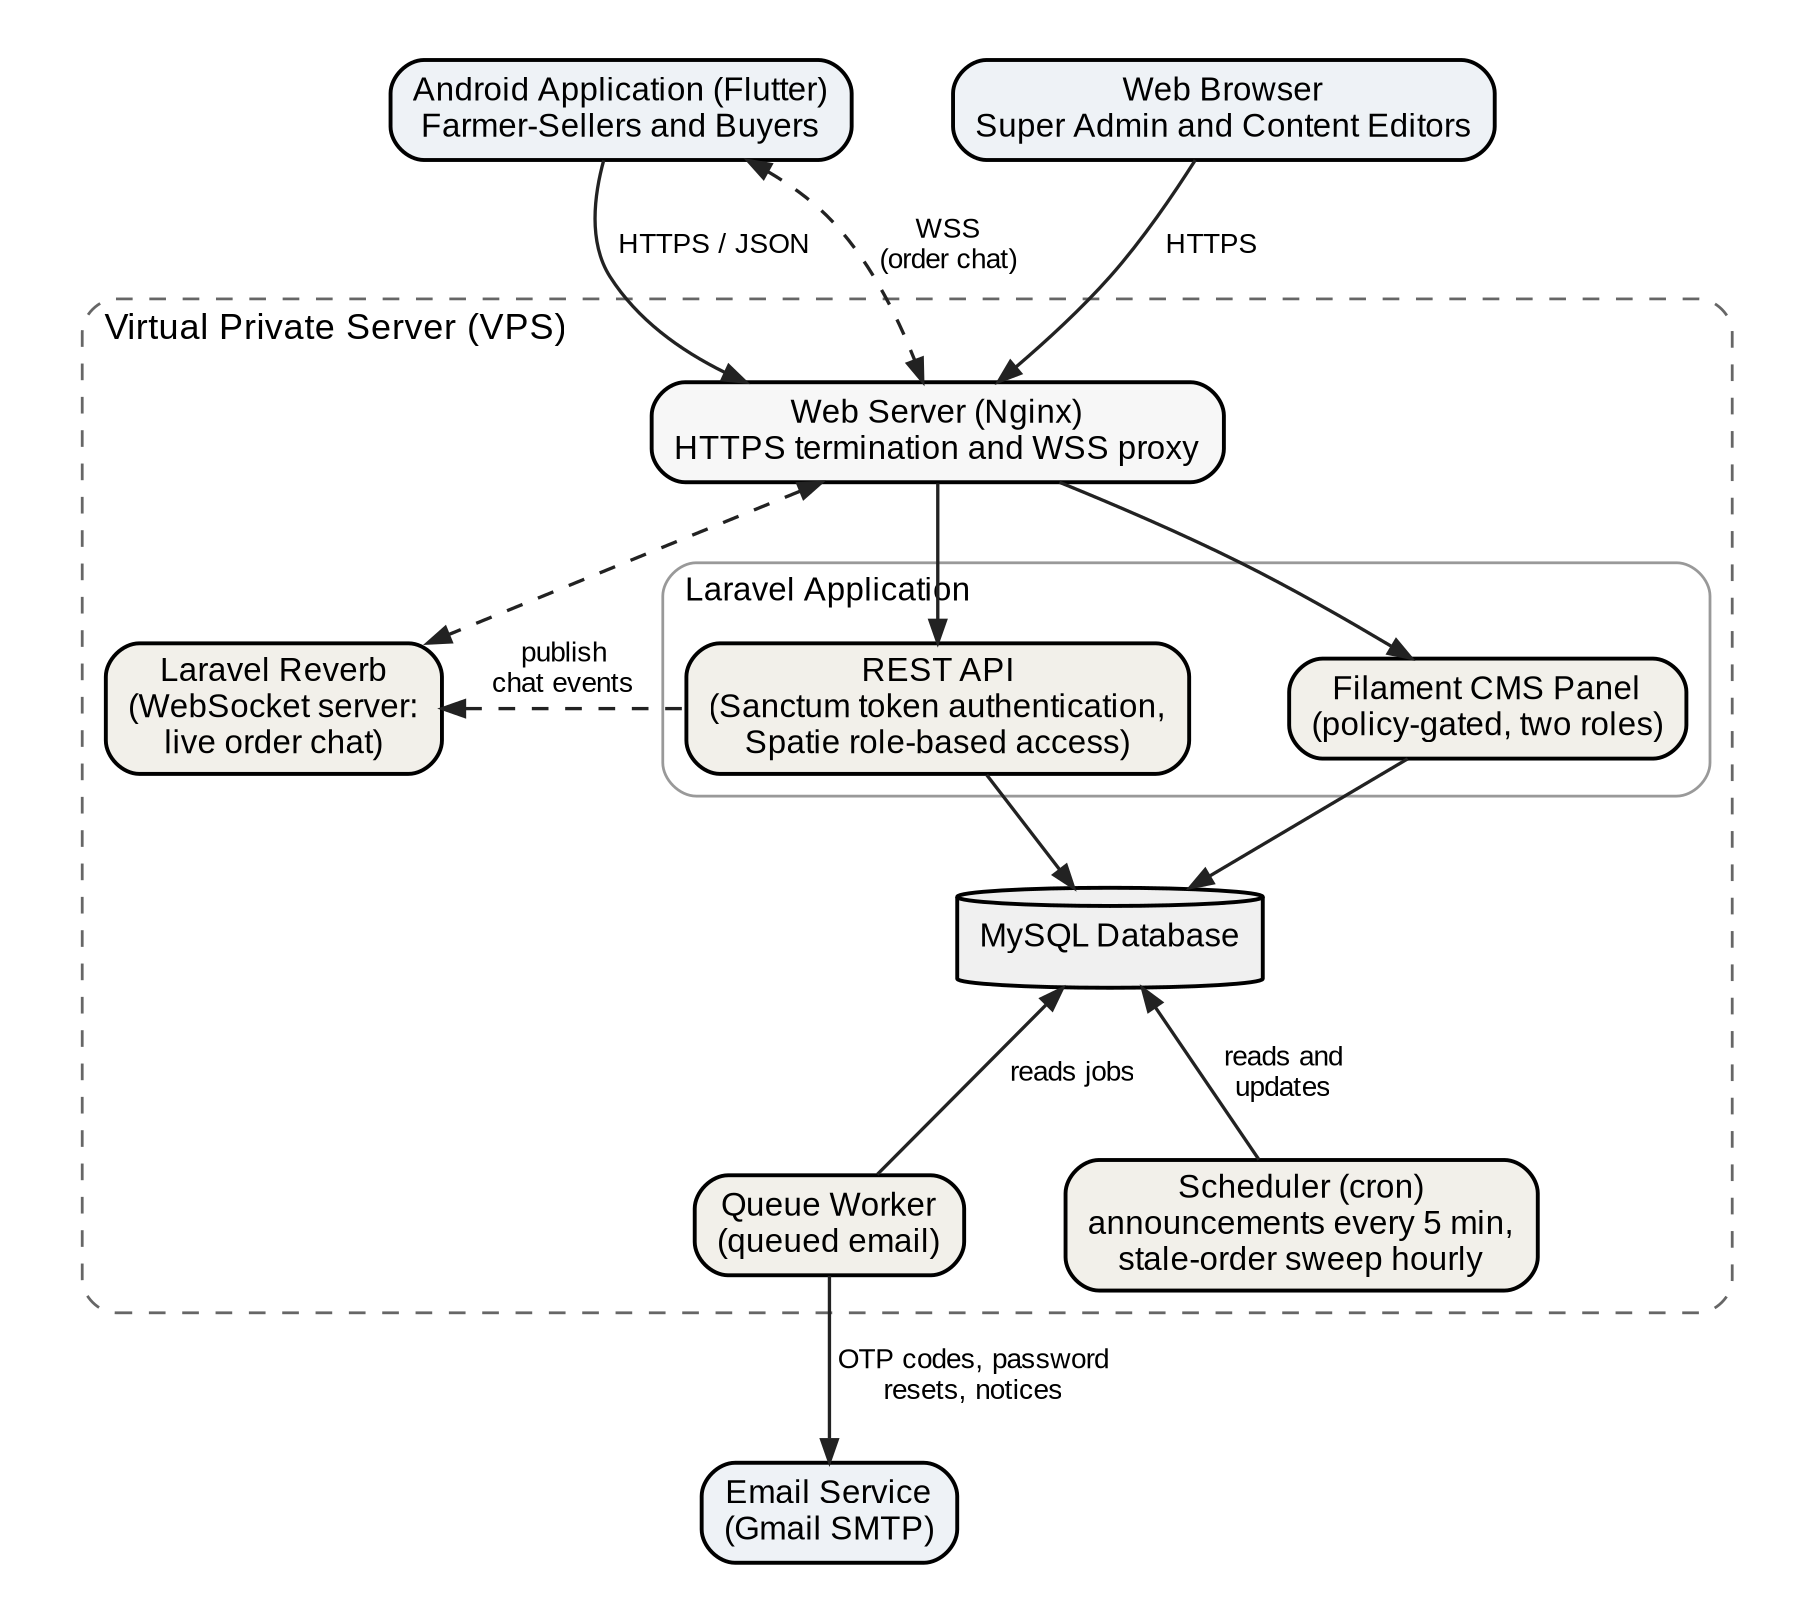
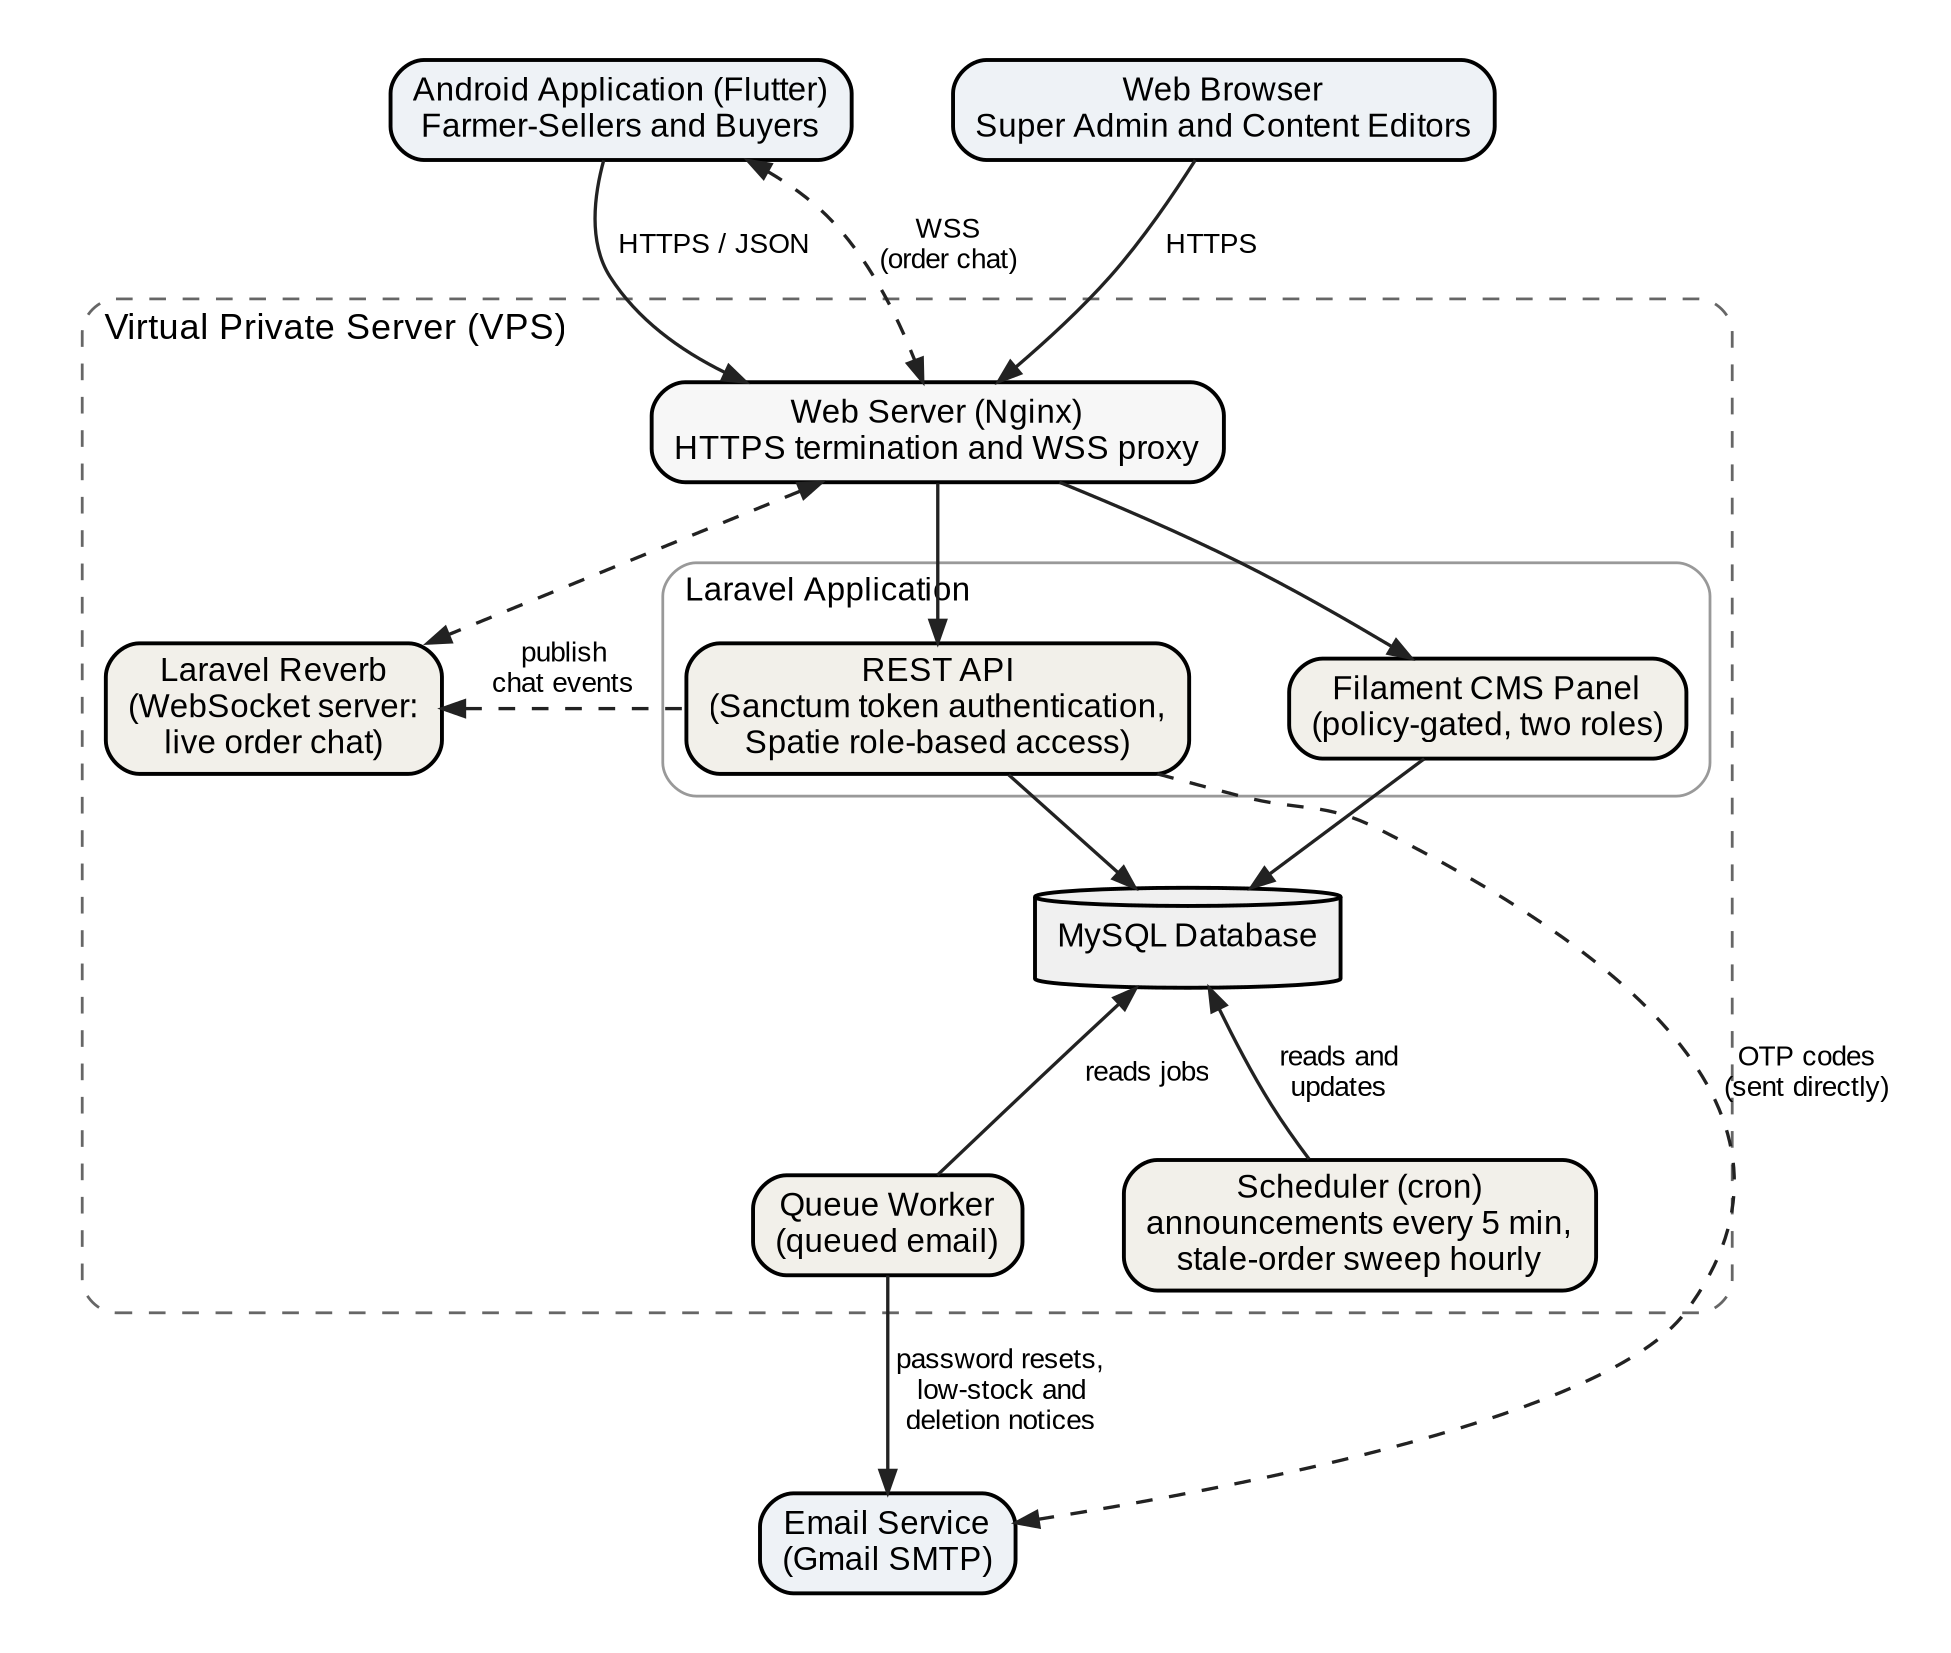
docs: correct OTP delivery path, update test totals and Flutter version
Figure 4 now shows the OTP sent directly by the API; the queue worker
sends password resets, low-stock alerts and deletion notices. The v3.5
spec gains the post-v3.5 hardening addendum (A1-A11) and the CI totals.

Claude-Session: https://claude.ai/code/session_01DHu5teF2E6viwKNN4sP5w4

diff --git a/docs/spec/AniHow_Project_Instructions_v3.5.md b/docs/spec/AniHow_Project_Instructions_v3.5.md
@@ -6,7 +6,8 @@ instruction set, working note, or prior manuscript section, THIS DOCUMENT WINS.
 v2 through v3.4 are historical reference only.
 
 Status: system built and feature-complete for the study; manuscript in re-audit
-against the v3.5 build.
+against the v3.5 build. Revised 24 September 2026 for the post-v3.5 hardening
+pass (see "Post-v3.5 addendum" at the end); no module or actor changed.
 
 ---
 
@@ -30,17 +31,18 @@ The system is implemented across three surfaces: a Laravel API (four roles), a
 Filament CMS (policy-gated resources for two roles on one panel), and a Flutter
 Android application. Development happens on the branch
 `cursor/cloud-agent-1790189470926-52vq6`; this document describes that branch as
-of commit `c22e36f`.
+of commit `efa1419`.
 
 **Test totals (confirmed runs, 24 September 2026).**
 
 | Layer | Result |
 |---|---|
-| Full `php artisan test` suite | **182 tests, 1,320 assertions** |
+| Full `php artisan test` suite | **215 tests, 1,538 assertions** |
 | SmokeTestSeeder (service-level, runs separately) | **26 of 26** checks |
 | Multi-farm isolation (inside the PHP total) | 8 checks, 138 assertions |
-| Flutter `flutter test` (default run) | **48 passed**; 3 live API suites skipped by design |
+| Flutter `flutter test` (default run, Flutter 3.47.4) | **63 passed**; 3 live API suites skipped by design |
 | Flutter live suites (`--tags live --run-skipped --concurrency=1`) | 3 of 3 against a seeded local API |
+| GitHub Actions CI (every push) | Pint `--test`, full PHPUnit suite, `flutter analyze`, `flutter test`; green on `efa1419` |
 
 The PHP feature suite covers: authentication and OTP verification, change
 password, the client request contract, crop-care reads (farmer-sellers only),
@@ -50,7 +52,9 @@ guards, walk-in recording, marketplace search, takedown and restore
 notification, order chat, the FAQ bot and its CMS management and moderation,
 the farm page, farm announcements, farmer-seller analytics, stale-order
 reminders and auto-cancellation, Super Admin CSV exports, and the data-subject
-rights (correct, export, request deletion, anonymisation).
+rights (correct, export, request deletion, anonymisation), shop favorites,
+the buyer-visible cancellation note, the demo seeder, image variants and
+thumbnails, and orphaned-file pruning.
 
 The overlap between the smoke and feature layers is deliberate: the seeder tests
 the services, the feature suite tests the routes, and a policy or FormRequest can
@@ -525,12 +529,14 @@ the SRS):**
 | Spatie Laravel-Permission | 8.3.0 |
 | Laravel Reverb | 1.12.0 |
 | Dart SDK constraint | ^3.13.3 |
-| Flutter, MySQL | [TEAM INPUT: from `flutter --version` and the VPS] |
+| Flutter | 3.47.4 |
+| MySQL | [TEAM INPUT: from the VPS] |
 
 **Server processes on the VPS (all four are required):**
 1. Nginx + PHP-FPM serving the Laravel application over HTTPS.
-2. **Queue worker** (`queue:work`, under Supervisor): sends queued email such as
-   OTP codes, password resets, low-stock alerts, and deletion confirmations.
+2. **Queue worker** (`queue:work`, under Supervisor): sends queued email, namely
+   password resets, low-stock alerts, and deletion notices. OTP codes do NOT go
+   through the queue (see below).
 3. **Reverb** (`reverb:start`, under Supervisor), proxied as `wss` on its own
    subdomain: live order chat.
 4. **Scheduler** (cron running `schedule:run` every minute): delivers scheduled
@@ -539,7 +545,11 @@ the SRS):**
 
 **Email verification:** OTP-only, 6-digit code, hashed in cache, 10-minute
 expiry, in-app verification screen. Mail goes out through Gmail SMTP (app
-password on the sending account) through the queue; `log` in local development.
+password on the sending account). The OTP is sent synchronously (`notifyNow`)
+within the registration or resend request, so it does not depend on the queue
+worker. `log` in local development, where the code is also returned in the API
+response only in `local`/`testing` when mail is unconfigured; in production an
+unconfigured mailer returns 503 and the code is never exposed.
 
 **Time zone:** `Asia/Manila` for the application, analytics, and schedules.
 
@@ -789,7 +799,7 @@ filename suggests College of Computer Studies).
 | 13 | Farmer-seller account creation described as Super Admin-created; OTP applies to buyers. | Corrects v3.4's description to match the build. |
 | 14 | Client scope settled: Manggahan is the sole evaluated partner. | Decision 21; closes the v3.4 open item. |
 | 15 | PYAP name corrected; post-turnover administration recorded. | Decisions 22, 23. |
-| 16 | Test totals: 182 tests, 1,320 assertions (PHP); 48 Flutter tests plus 3 live suites. | Confirmed runs. |
+| 16 | Test totals: 182 tests, 1,320 assertions (PHP); 48 Flutter tests plus 3 live suites. Superseded by the addendum totals. | Confirmed runs at `c22e36f`. |
 | 17 | DeLone and McLean (1992) page range confirmed as 60-95. | Closes the v3.4 note. |
 
 ### Deferred / open (not v3.5 behaviour changes)
@@ -799,7 +809,27 @@ filename suggests College of Computer Studies).
   as a limitation, not a planned feature.
 - Accepted edge: a checkout in the same instant a deletion is approved can leave
   one order attached to "Deleted user"; milliseconds wide, pilot scale.
-- Carried from v3.4, unverified since: the unverified-buyer `MaterialBanner`
-  overlapping the status bar.
 - The README's older phase sections (Reservations, POS) are outdated and should
   be trimmed in a documentation pass.
+
+---
+
+## Post-v3.5 addendum (hardening pass, 24 September 2026)
+
+None of these changes adds a module, an actor, or a permission, so the five
+modules, the golden thread, and the decision log stand as written. Chapter 3
+was updated only where noted.
+
+| # | Change | Commit | Manuscript effect |
+|---|---|---|---|
+| A1 | Shop favorites for buyers (deleted shops drop out of the list); buyer sees the seller's cancellation note on the order. | `36960ae`, `8fe30bc` | None (supporting table already omitted from Figure 7). |
+| A2 | DemoSeeder with realistic data; stale pre-rebuild seeders removed; mail, broadcasts, and queued jobs suppressed while seeding. | `c83e82c`, `79f6e41` | None. |
+| A3 | Indexes on hot queries; uploaded images stored as a 1600px JPEG (quality 82) plus a 400px thumbnail. | `798ec43` | None. |
+| A4 | OTP returned in the API response only in `local`/`testing` with mail unconfigured; production returns 503. | `f5ef3c5` | None. |
+| A5 | Image processing: resize before rotate, 40 MP decode cap, white background for transparency, memory limit only raised, all eight EXIF orientations handled. | `f2012b1`, `526ea07` | None. |
+| A6 | Unverified-buyer banner no longer overlaps the status bar (closes the v3.4 carry-over). | `8fe30bc` | None. |
+| A7 | `storage:prune-orphans` removes image files no row references (listing photos included). | `8fe30bc`, `f57264b` | None. |
+| A8 | GitHub Actions CI on every push: Pint, PHPUnit, `flutter analyze`, `flutter test` (Flutter 3.47.4). | `2375443`, `efa1419` | Chapter 3 Testing Procedure mentions automated checks on every push. |
+| A9 | Documentation correction: the OTP is sent directly, not through the queue worker. | none (docs) | Chapter 3 architecture paragraph and Figure 4 corrected. |
+| A10 | Test totals: 215 tests, 1,538 assertions (PHP); isolation 8 tests, 138 assertions; seeder 26 of 26; Flutter 63 passed plus 3 live suites. | `efa1419` | Chapter 3 Testing Procedure updated. |
+| A11 | Table 2 Flutter version set to 3.47.4. | none (docs) | Chapter 3 Table 2 updated; MySQL still team input. |
